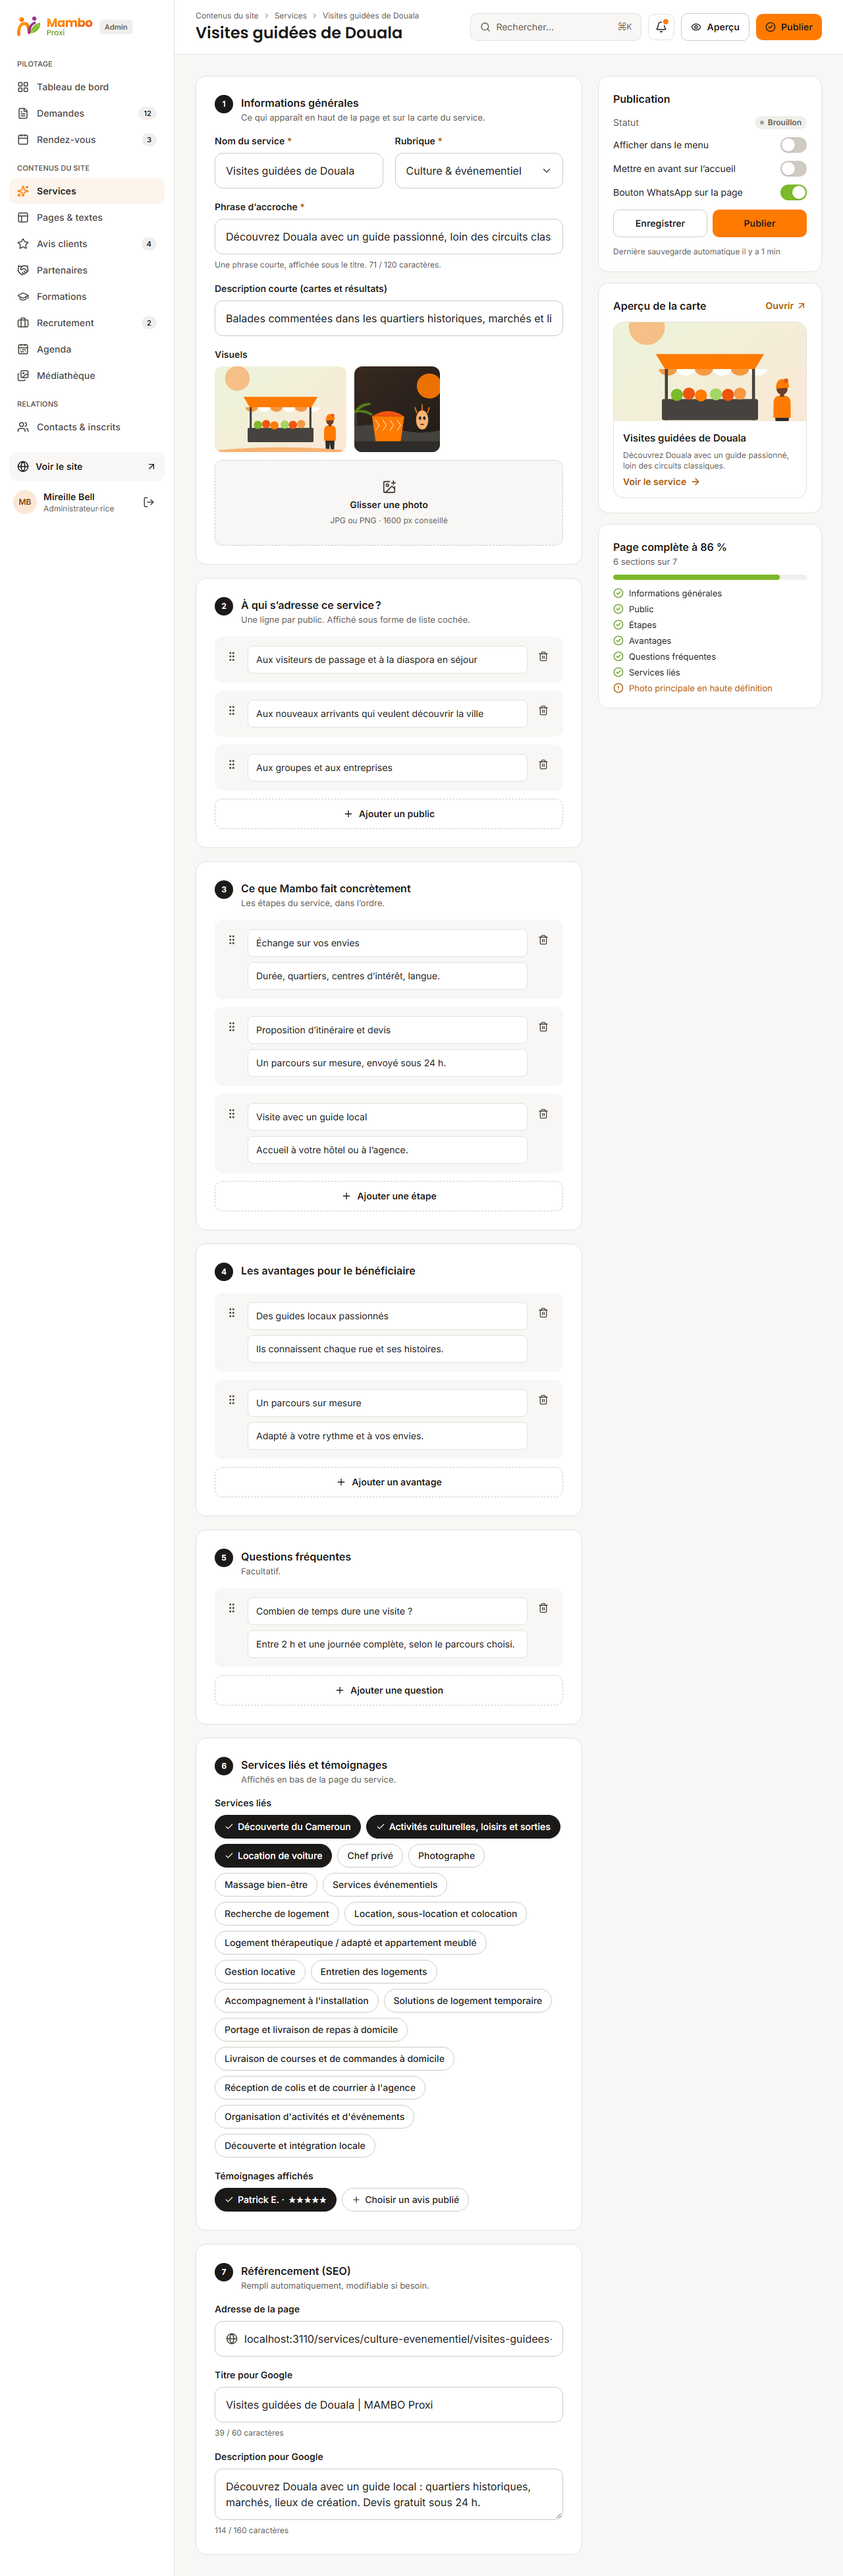
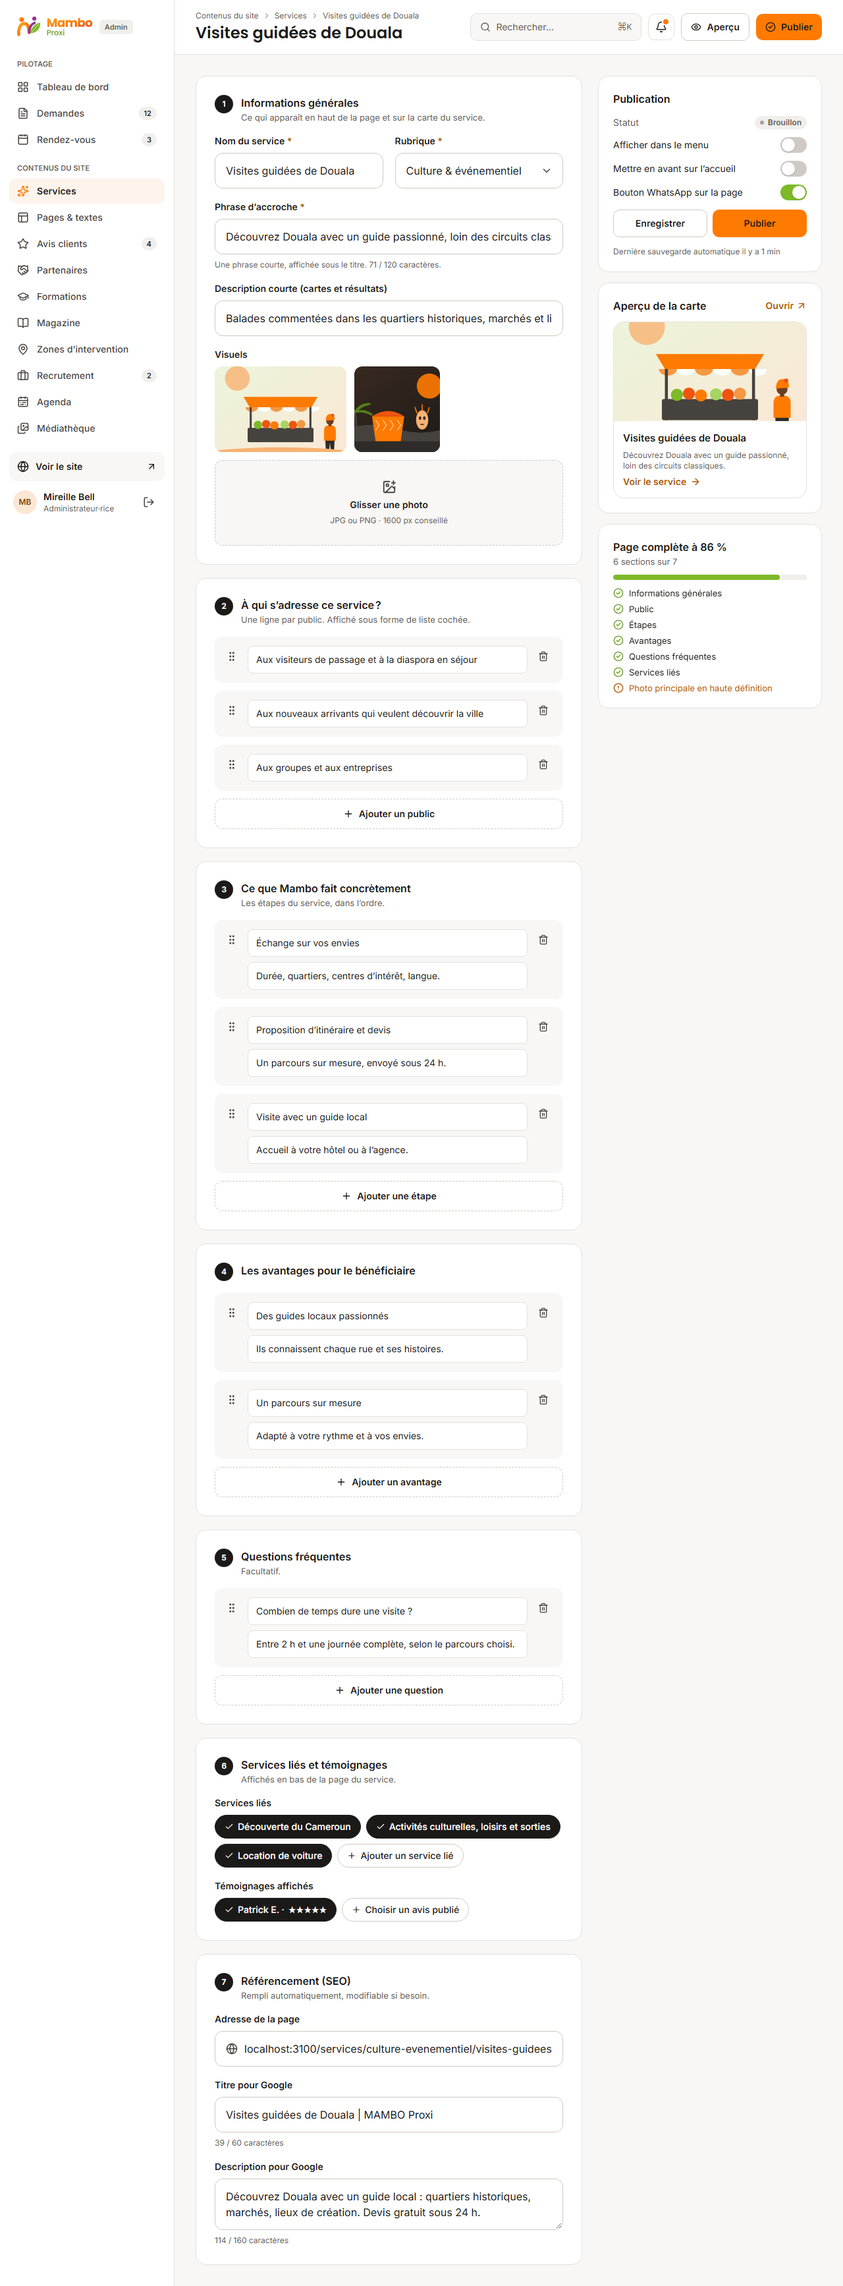
test(admin): services sur les nouvelles données, captures de fidélité, suivi à jour

diff --git a/e2e/admin-services.spec.ts b/e2e/admin-services.spec.ts
@@ -21,8 +21,8 @@ test.describe('back-office : services', () => {
     await page.goto('/admin/services', { waitUntil: 'load' });
     await expect(page.getByRole('heading', { level: 1 })).toHaveText('Services');
     await expect(page.getByRole('tab', { name: /^Tous/ })).toHaveAttribute('aria-selected', 'true');
-    await expect(page.getByRole('tab', { name: /^Tous/ })).toContainText('20');
-    await expect(page.getByText('Affichage de 9 sur 20 services · 1 brouillon')).toBeVisible();
+    await expect(page.getByRole('tab', { name: /^Tous/ })).toContainText('27');
+    await expect(page.getByText('Affichage de 9 sur 27 services · 1 brouillon')).toBeVisible();
     await expect(
       page.getByRole('link', { name: 'Chef privé', exact: true }).locator('visible=true'),
     ).toBeVisible();
@@ -66,7 +66,7 @@ test.describe('back-office : services', () => {
       await expect(page).not.toHaveURL(/category=/, { timeout: 3000 });
     }).toPass({ timeout: 30_000 });
     await expect(
-      page.getByRole('link', { name: 'Gestion locative', exact: true }).locator('visible=true'),
+      page.getByRole('link', { name: 'Photographe', exact: true }).locator('visible=true'),
     ).toBeVisible();
     expect(await top(page, 'Location de voiture')).toBeLessThan(await top(page, 'Chef privé'));
     expect(await top(page, 'Chef privé')).toBeLessThan(await top(page, 'Photographe'));
@@ -197,7 +197,7 @@ test.describe('back-office : services', () => {
       await page.getByRole('button', { name: 'Gérer les rubriques' }).click();
       await expect(dialog).toBeVisible({ timeout: 3000 });
     }).toPass({ timeout: 30_000 });
-    await expect(dialog.getByRole('button', { name: /^Déplacer/ })).toHaveCount(4);
+    await expect(dialog.getByRole('button', { name: /^Déplacer/ })).toHaveCount(5);
     await expectAccessible(page);
 
     await dialog.getByRole('button', { name: 'Modifier la rubrique « Immobilier »' }).click();
@@ -235,7 +235,7 @@ test.describe('back-office : services (fidélité)', () => {
     await login(page);
     const width = page.viewportSize()?.width ?? 0;
     await page.goto('/admin/services', { waitUntil: 'load' });
-    await expect(page.getByText('Affichage de 9 sur 20 services · 1 brouillon')).toBeVisible();
+    await expect(page.getByText('Affichage de 9 sur 27 services · 1 brouillon')).toBeVisible();
     await page.screenshot({ path: `qa/fidelite/bo-services-${width}.png`, fullPage: true });
     await page.goto('/admin/services/svc_visites_douala', { waitUntil: 'load' });
     await expect(page.getByRole('region', { name: 'Complétude' })).toBeVisible();

diff --git a/TASKS.md b/TASKS.md
@@ -72,8 +72,8 @@ Une page n'est cochée qu'après : fidélité 390/768/1280/1440 vérifiée (`qa/
 - [~] Gabarit : barre latérale (compteurs), barre supérieure, recherche ⌘K, notifications, responsive (icônes, navigation basse mobile), 404 — reste la 404 du back-office
 - [x] Tableau de bord (desktop + mobile)
 - [x] Demandes (liste, filtres, panneau de détail, statuts, notes, export)
-- [ ] Services (liste, réordonnancement, menu) + gestion des rubriques
-- [ ] Ajouter / modifier un service (7 sections, sauvegarde auto, aperçu, complétude, publication)
+- [x] Services (liste, réordonnancement, menu) + gestion des rubriques
+- [x] Ajouter / modifier un service (7 sections, sauvegarde auto, aperçu, complétude, publication)
 - [ ] Pages & textes (sections, éditeurs par type, Tiptap pour les pages légales, aperçu, publication)
 - [ ] Avis clients (validation, réponse, mise en avant, questions du questionnaire)
 - [ ] Rendez-vous (calendrier jour/semaine/mois, détail, à confirmer, saisie manuelle) + réglage des disponibilités
@@ -120,7 +120,7 @@ Les maquettes ont été refondues mi-octobre 2026 (recentrage sur Douala et les 
 - [x] Pages légales (version anglaise, mobile recalé) — `qa/fidelite/pages-legales-*.png`
 - [x] Questionnaire (vignette photo, en-tête recalé) et 404 (photo, textes traduits) — `qa/fidelite/questionnaire-*.png`, `qa/fidelite/page-404-*.png`
 - [ ] E-mails (4 modèles mis à jour) — produits par l'API (module mail, React Email) : à intégrer avec la phase 2 de l'API ; captures `qa/reference/emails/` à jour
-- [~] Back-office : tableau de bord et Demandes recalés (5 rubriques, quartiers de Douala, filtre « Tous les quartiers », Magazine et Zones dans le menu — `qa/fidelite/bo-tableau-de-bord-*.png`, `bo-demandes-*.png`) ; Magazine et édition d'un numéro (`qa/fidelite/bo-magazine-*.png`, `bo-magazine-edition-*.png`), Zones d'intervention (`qa/fidelite/bo-zones-*.png`) faits ; reste écrans en cours sur les branches `bo/services-en-cours`, `bo/pages-textes-en-cours`, `bo/recrutement-en-cours`
+- [~] Back-office : tableau de bord et Demandes recalés (5 rubriques, quartiers de Douala, filtre « Tous les quartiers », Magazine et Zones dans le menu — `qa/fidelite/bo-tableau-de-bord-*.png`, `bo-demandes-*.png`) ; Magazine et édition d'un numéro (`qa/fidelite/bo-magazine-*.png`, `bo-magazine-edition-*.png`), Zones d'intervention (`qa/fidelite/bo-zones-*.png`), Services (`qa/fidelite/bo-services-*.png`, `bo-ajouter-un-service-*.png`, éditeur à 70 px de la maquette) faits ; reste écrans en cours sur les branches `bo/pages-textes-en-cours`, `bo/recrutement-en-cours`
 - [ ] Implémentation de l'API (phase 2) : `?lang`, zones, formules, citations d'avis, offres des fiches service, secteurs, rémunération et horaires des offres d'emploi
 
 ## Phase 3 — Intégration

diff --git a/JOURNAL.md b/JOURNAL.md
@@ -696,3 +696,17 @@ Les maquettes Figma ont été refondues : recentrage sur Douala et les services 
 - **Tarifs indicatifs** : enregistrés et affichés dans le back-office avec « · masqué » ; l’option « Afficher les tarifs » citée par la maquette n’existe pas encore dans les Paramètres et entrerait en conflit avec la règle « aucun prix affiché » du cahier (§9) : à trancher avec la cliente.
 - **Import GeoJSON** cité par l’encart : non disponible ; les nouveaux quartiers n’ont pas de position sur la carte.
 
+### Back-office : Services (24 octobre 2026)
+
+- Liste et éditeur repris d'après la refonte, sur le catalogue du site : 5 rubriques et 27 services, dont les formules (Maison Essentiel, Maison + Auto…) qui n'ont pas de fiche propre ; photos des fiches à la place des illustrations, onglet « À domicile », demandes sur 30 jours de la maquette.
+- « Services liés » n'affiche plus que les services choisis ; « + Ajouter un service lié » ouvre un sélecteur groupé par rubrique (6 au plus). Témoignage mis en avant : celui de Patrick E. (maquette).
+- Fidélité : liste 1 046 px pour 1 045 ; éditeur 3 327 px pour 3 397 en desktop, écart de 70 px non résorbé (référence Figma inaccessible pour le moment). Captures dans `qa/fidelite/bo-services-*.png` et `bo-ajouter-un-service-*.png`.
+
+### Décisions
+
+- **Ordre de l'onglet « Tous »** : la maquette mélange les rubriques (sélection éditoriale) ; ici, ordre des rubriques puis ordre d'affichage enregistré, seul ordre que le réordonnancement peut garantir.
+- **Sélecteur de services liés** : non maquetté, construit sur le modèle du choix d'un avis publié.
+
+### Difficultés et solutions
+
+- **Listes réordonnables dans un tableau** : dnd-kit insérait ses zones d'annonce (`div`) dans `<table>` (HTML invalide signalé par React) ; elles sont placées dans `body` pour les listes `tbody`.
